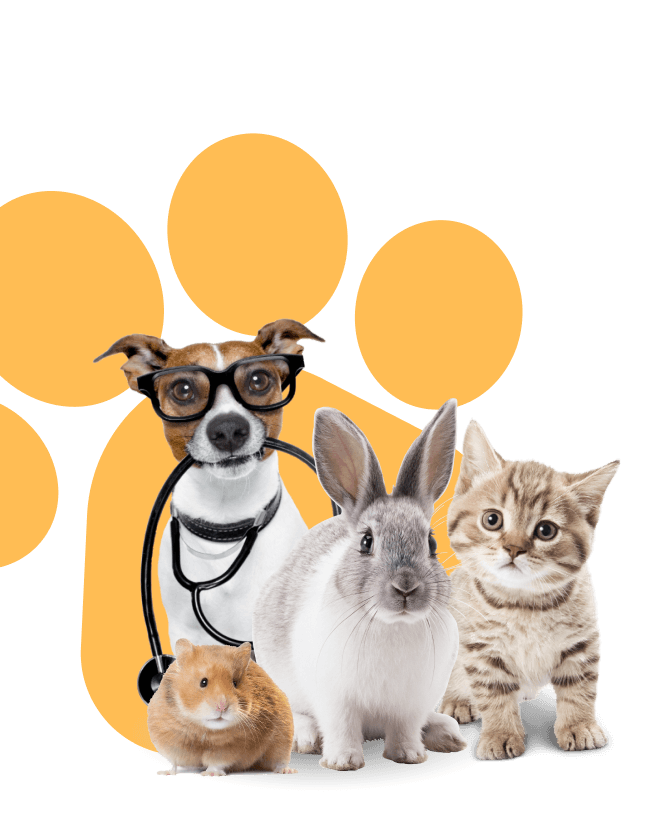
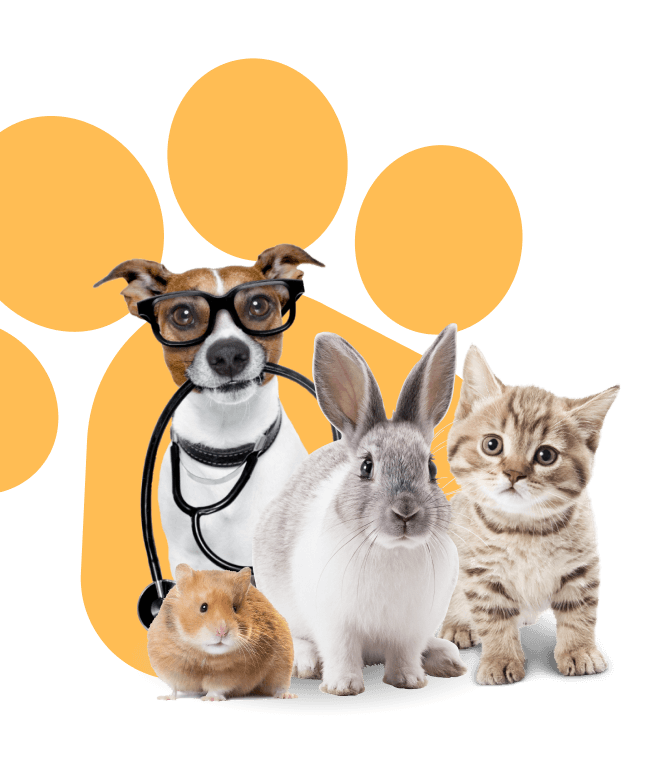
add some section

diff --git a/index.html b/index.html
@@ -72,17 +72,103 @@
   <main class="main">
     <section class="intro">
       <div class="intro-container">
-        <img class="introimg-one" src="img/introimg-one.png" alt="intro img" width="606" height="835">
+        <img class="introimg-one" src="img/introimg-one.png" alt="intro img" width="653" height="760">
         <div class="intro-text">
           <h1 class="intro-heading">Мы заботимся o<span class="heading-blue"> ваших питомцах!</span></h1>
           <p class="intro-paragraph">Вам и Вашему любимцу множество услуг по диагностике, профилактике заболеваний по лечению и уходу за Вашими животными. Профессионалы работающие в нашей клинике сделают все для того, чтобы быстро, эффективно и максимально безболезненно выполнить любие процедуры, которые необходимы Вашему домашнему любимцу.</p>
-          <a class="intro-link" href="">Наши услуги</a>
+          <a class="intro-link" href="#slider">Наши услуги</a>
         </div>
       </div>
     </section>
 
-    <section>
-      
+    <hr class="hr">
+
+    <section class="opinion">
+      <div class="opinion-container">
+        <blockquote class="opinion-tag">
+          Наша ветеринарная клиника готова уделить максимум внимания Вам и Вашему питамцу. Здоровье и благополучие Ваших животных очень важно для нас и мы стремимся оказать наилучшую возможную ветеринарную помощь.
+        </blockquote>
+      </div>
+    </section>
+
+    <hr class="hr">
+
+    <section class="body-text">
+      <div class="container">
+        <p class="body-paragraph">Оржоникидзевская Ветеринарная клиника</p>
+      </div>
+    </section>
+
+    <section class="slider" id="slider">
+      <div class="container">
+        <h2 class="slider-heading">Наши услуги</h2>
+        <div class="slider-wrapper">
+          <button class="slider-btn" type="button"></button>
+          <ul class="slider-list">
+            <li class="slider-list-item">
+              <a class="slider-link" href="#">
+                <p class="link-text slider-one">Первичный осмотр</p>
+              </a>
+            </li>
+            <li class="slider-list-item">
+              <a class="slider-link" href="#">
+                <p class="link-text slider-two">Первичный осмотр</p>
+              </a>
+            </li>
+            <li class="slider-list-item">
+              <a class="slider-link" href="#">
+                <p class="link-text slider-three">Хирургическое вмешательство</p>
+              </a>
+            </li>
+            <li class="slider-list-item">
+              <a class="slider-link" href="#">
+                <p class="link-text slider-four">Дерматология</p>
+              </a>
+            </li>
+            <li class="slider-list-item">
+              <a class="slider-link" href="#">
+                <p class="link-text slider-five">Лабораторная диагностика</p>
+              </a>
+            </li>
+            <li class="slider-list-item">
+              <a class="slider-link" href="#">
+                <p class="link-text slider-six">Офтальмология</p>
+              </a>
+            </li>
+            <li class="slider-list-item">
+              <a class="slider-link" href="#">
+                <p class="link-text slider-seven">УЗИ диагностика</p>
+              </a>
+            </li>
+            <li class="slider-list-item">
+              <a class="slider-link" href="#">
+                <p class="link-text slider-eight">Чипирование</p>
+              </a>
+            </li>
+            <li class="slider-list-item">
+              <a class="slider-link" href="#">
+                <p class="link-text slider-nine">Международные паспорта</p>
+              </a>
+            </li>
+            <li class="slider-list-item">
+              <a class="slider-link" href="#">
+                <p class="link-text slider-ten">Вакцинация</p>
+              </a>
+            </li>
+            <li class="slider-list-item">
+              <a class="slider-link" href="#">
+                <p class="link-text slider-eleven">Стоматология</p>
+              </a>
+            </li>
+            <li class="slider-list-item">
+              <a class="slider-link" href="#">
+                <p class="link-text slider-twelve">Вызов на дом</p>
+              </a>
+            </li>
+          </ul>
+          <button class="slider-btn slider-btn-right" type="button"></button>
+        </div>
+      </div>
     </section>
   </main>
 

diff --git a/css/styles.css b/css/styles.css
@@ -286,8 +286,7 @@ body {
 .intro-container {
   position: relative;
   z-index: 1;
-  padding-top: 200px;
-  padding-bottom: 300px;
+  padding-bottom: 80px;
   width: 1345px;
   display: flex;
   align-items: center;
@@ -300,8 +299,7 @@ body {
 }
 
 .introimg-one {
-  position: absolute;
-  z-index: 1;
+  z-index: -5;
 }
 
 .intro-text {
@@ -348,4 +346,213 @@ body {
 
 .intro-link:active {
   opacity: 0.6;
+}
+
+.hr {
+  width: 140px;
+  height: 2px;
+  border: none;
+  background-color: #DBDBDB;
+}
+
+.opinion-container {
+  position: relative;
+  z-index: 1;
+  width: 1135px;
+  margin-right: auto;
+  margin-left: auto;
+  padding-top: 43px;
+  padding-bottom: 35px;
+}
+
+.opinion-tag {
+  position: relative;
+  z-index: 1;
+  width: 755px;
+  font-size: 20px;
+  line-height: 26px;
+  text-align: center;
+  color: #949494;
+  margin-left: auto;
+  margin-right: auto;
+}
+
+.opinion-tag::before {
+  position: absolute;
+  z-index: 1;
+  display: flex;
+  width: 50px;
+  height: 50px;
+  right: 110%;
+  bottom: 100%;
+  content: "";
+  background-image: url("../img/tirnoq-left.svg");
+  background-repeat: no-repeat;
+  background-size: contain;
+  background-position: center center;
+}
+
+.opinion-tag::after {
+  position: absolute;
+  z-index: 1;
+  display: flex;
+  left: 110%;
+  width: 50px;
+  height: 50px;
+  content: "";
+  background-image: url("../img/tirnoq-left.svg");
+  background-repeat: no-repeat;
+  background-size: contain;
+  background-position: center center;
+  transform: rotate(180deg);
+}
+
+.body-text {
+  text-align: center;
+  margin-top: 35px;
+  margin-bottom: 190px;
+}
+
+.body-paragraph {
+  font-weight: 500;
+  font-size: 20px;
+  line-height: 26px;
+  color: #333333;
+}
+
+.slider {
+  text-align: center;
+}
+
+.slider-heading {
+  font-size: 48px;
+  line-height: 20px;
+  margin-bottom: 80px;
+}
+
+.slider-wrapper {
+  display: flex;
+  align-items: center;
+}
+
+.slider-list {
+  display: flex;
+  list-style-type: none;
+  overflow: hidden;
+  margin: 0;
+  padding: 0 15px;
+  max-width: 1220px;
+  margin-bottom: 14px;
+}
+
+.slider-list-item {
+  display: flex;
+}
+
+.slider-list-item:not(:last-child) {
+  margin-right: 13px;
+}
+
+.slider-link {
+  width: 188px;
+  min-height: 201px;
+  display: inline-block;
+  text-decoration: none;
+  color: #333;
+  background-color: #fff;
+  padding-left: 35px;
+  padding-right: 32px;
+  padding-bottom: 28px;
+}
+
+.slider-btn {
+  width: 45px;
+  height: 45px;
+}
+
+.link-text {
+  margin: 0;
+  margin-top: 118px;
+  position: relative;
+  padding-top: 22px;
+  font-weight: 500;
+  font-size: 18px;
+  line-height: 22px;
+  display: flex;
+  text-align: center;
+  color: #333333;
+}
+
+.link-text::before {
+  position: absolute;
+  display: flex;
+  width: 100%;
+  height: 78px;
+  bottom: 100%;
+  content: "";
+  background-repeat: no-repeat;
+  background-size: contain;
+  background-position: center center;
+}
+.slider-one::before{
+  background-image: url("../img/slider-one.svg");
+}
+.slider-two::before{
+  background-image: url("../img/slider-two.svg");
+}
+.slider-three::before{
+  background-image: url("../img/slider-three.svg");
+}
+.slider-four::before{
+  background-image: url("../img/slider-four.svg");
+}
+.slider-five::before{
+  background-image: url("../img/slider-five.svg");
+}
+.slider-six::before{
+  background-image: url("../img/slider-six.svg");
+}
+.slider-seven::before{
+  background-image: url("../img/slider-seven.svg");
+}
+.slider-eight::before{
+  background-image: url("../img/slider-eight.svg");
+}
+.slider-nine::before{
+  background-image: url("../img/slider-nine.svg");
+}
+.slider-ten::before{
+  background-image: url("../img/slider-ten.svg");
+}
+.slider-eleven::before{
+  background-image: url("../img/slider-eleven.svg");
+}
+.slider-twelve::before{
+  background-image: url("../img/slider-twelve.svg");
+}
+
+.slider-btn {
+  display: inline-block;
+  width: 45px;
+  height: 45px;
+  border: none;
+  background-color: transparent;
+  background-image: url("../img/vector.svg");
+  background-repeat: no-repeat;
+  background-size: 14px;
+  background-position: center center;
+  cursor: pointer;
+}
+
+.slider-btn-right {
+  background-image: url("../img/vector-right.svg");
+}
+
+.slider-btn:hover {
+  background-color: #fff;
+  box-shadow: 0 0 8px -4px rgba(0, 0, 0, 0.5);
+}
+
+.slider-btn:active {
+
 }
